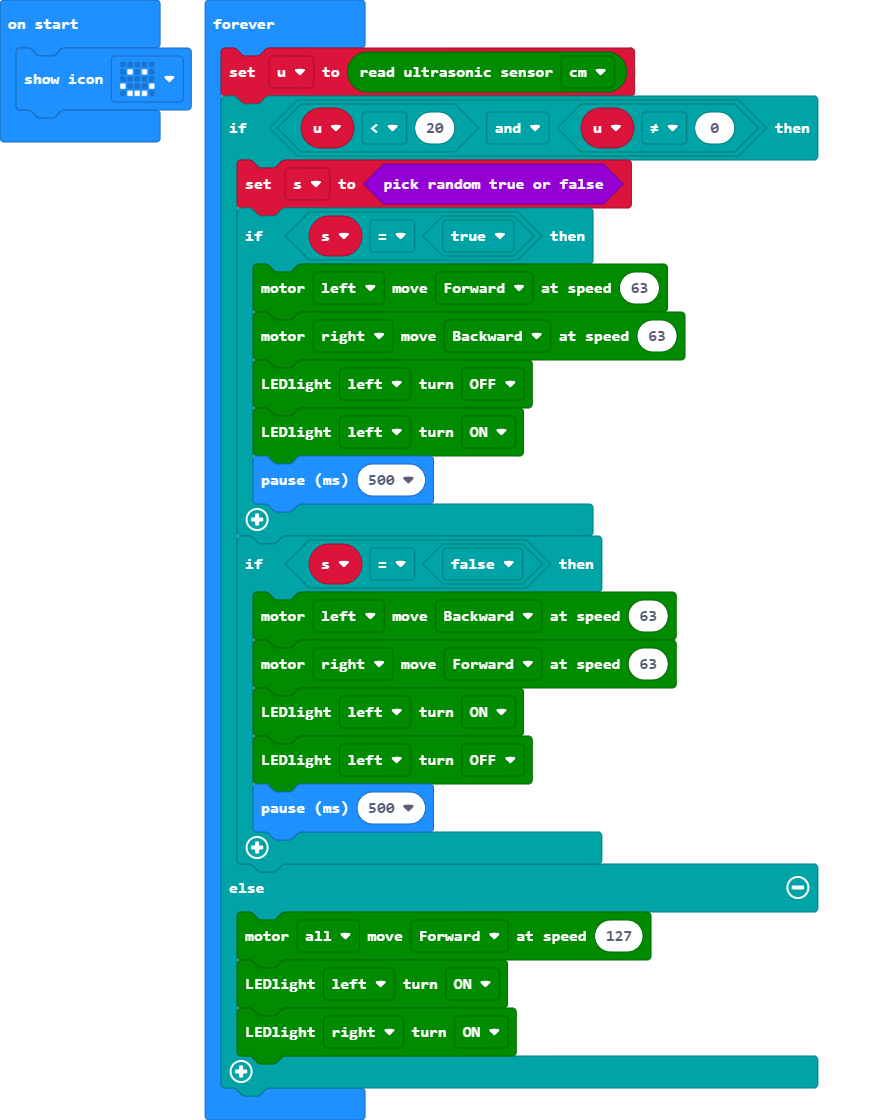
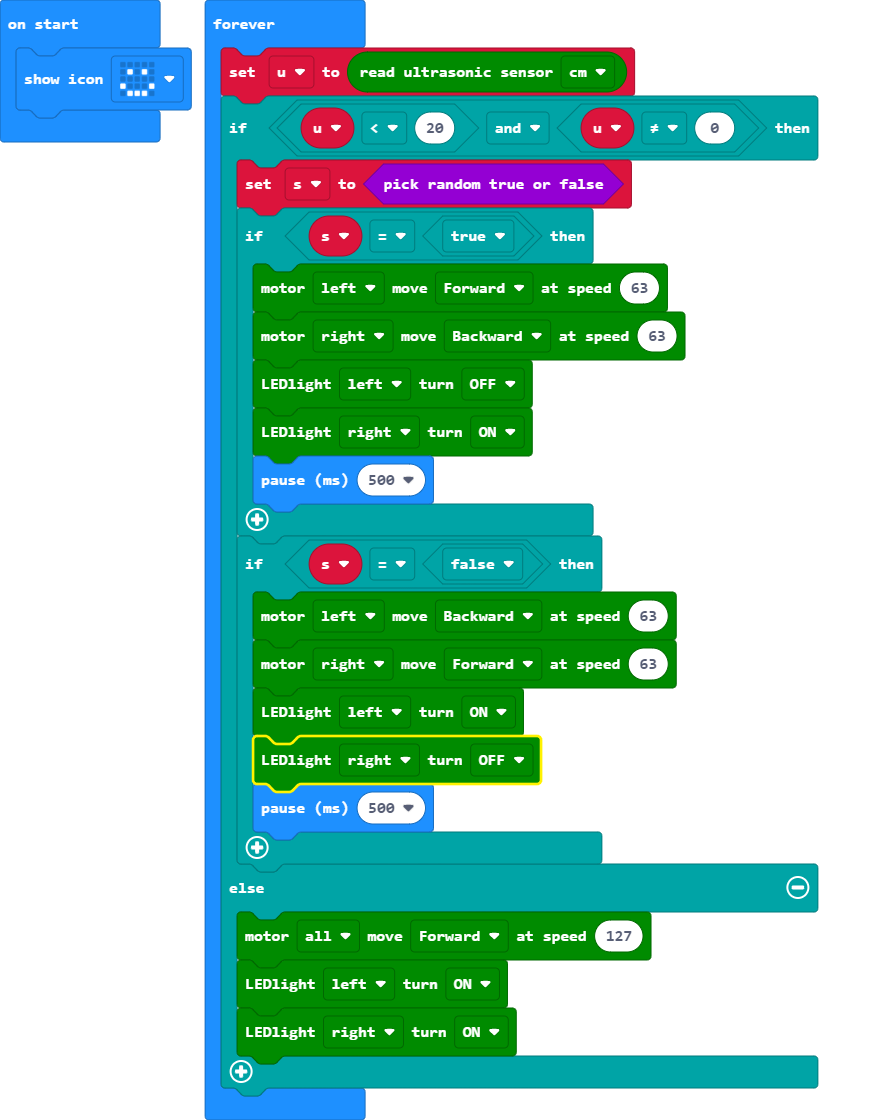
Update main.blocks, main.ts

Changed region(s): [[0.2793, 0.6562, 0.6517, 0.7188], [0.4034, 0.3438, 0.6207, 0.4062]]

diff --git a/main.ts b/main.ts
@@ -9,14 +9,14 @@ basic.forever(function () {
             maqueen.motorRun(maqueen.Motors.M1, maqueen.Dir.CW, 63)
             maqueen.motorRun(maqueen.Motors.M2, maqueen.Dir.CCW, 63)
             maqueen.writeLED(maqueen.LED.LEDLeft, maqueen.LEDswitch.turnOff)
-            maqueen.writeLED(maqueen.LED.LEDLeft, maqueen.LEDswitch.turnOn)
+            maqueen.writeLED(maqueen.LED.LEDRight, maqueen.LEDswitch.turnOn)
             basic.pause(500)
         }
         if (s == false) {
             maqueen.motorRun(maqueen.Motors.M1, maqueen.Dir.CCW, 63)
             maqueen.motorRun(maqueen.Motors.M2, maqueen.Dir.CW, 63)
             maqueen.writeLED(maqueen.LED.LEDLeft, maqueen.LEDswitch.turnOn)
-            maqueen.writeLED(maqueen.LED.LEDLeft, maqueen.LEDswitch.turnOff)
+            maqueen.writeLED(maqueen.LED.LEDRight, maqueen.LEDswitch.turnOff)
             basic.pause(500)
         }
     } else {
